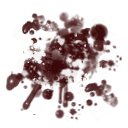
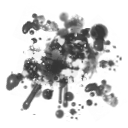
[changed] blood stains appearance [changed] dark green blood if monster is poisoned

diff --git a/src/program.cpp b/src/program.cpp
@@ -179,28 +179,32 @@ void createTerrain() {
 void spawnEnemy(float r) {
 	float spawnAngle = (rand() % 6300) / 1000.0;
 
-	int lvl = player->Level * 0.5f + player->Level * pow((rand() % 100) / 125.0f, 2);
-	if (lvl < 1) lvl = 1;
+	int lvl = player->Level * 0.5f + player->Level * pow((rand() % 100)
+			/ 125.0f, 2);
+	if (lvl < 1)
+		lvl = 1;
 
-	float scale = 0.1f + sqrt((float) lvl / player->Level);
+	float scale = 0.15f + sqrt((float) lvl / player->Level);
 
-	float param[3] = { 0.9f, 0.7f, 0.9f };
+	float param[3] = { 0.8f, 0.6f, 0.8f };
 
 	if (lvl > 1)
-		for (int i = 0; i < lvl; i++)
-		{
+		for (int i = 0; i < lvl; i++) {
 			int s = (rand() % 299) / 100;
 			param[s] += 0.1f;
 		}
 
 	float hi = 0.0f;
-	for (int i = 0; i < 3; i++)
-	{
-		if (param[i] > hi) hi = param[i];
+	for (int i = 0; i < 3; i++) {
+		if (param[i] > hi)
+			hi = param[i];
 	}
 
-	Enemy *newEnemy = new Enemy(r * cos(spawnAngle), r * sin(spawnAngle), param[1] > (param[0] + param[1] + param[2]) / 3.0f ? enemySprites[1] : enemySprites[0], bleedSprite,
-			enemyHitSounds[rand() % enemyHitSounds.size()]);
+	Enemy *newEnemy =
+			new Enemy(r * cos(spawnAngle), r * sin(spawnAngle), param[1]
+					> (param[0] + param[1] + param[2]) / 3.0f ? enemySprites[1]
+					: enemySprites[0], bleedSprite, enemyHitSounds[rand()
+					% enemyHitSounds.size()]);
 
 	newEnemy->Strength = param[0];
 	newEnemy->Agility = param[1];
@@ -212,7 +216,7 @@ void spawnEnemy(float r) {
 	newEnemy->GMask = newEnemy->Strength / hi;
 	newEnemy->BMask = newEnemy->Agility / hi * 0.7f;
 	newEnemy->Scale = scale;
-	
+
 	newEnemy->setHealth(newEnemy->MaxHealth());
 	newEnemy->Speed = newEnemy->MaxSpeed();
 	enemies.push_back(newEnemy);
@@ -270,15 +274,14 @@ void printVersion() {
 	delete[] buf;
 }
 
-void renderSplash()
-{
-	StaticObject* splash = new StaticObject(0,0,1000, 1000, new Texture(ImageUtility::loadImage(
-			fileUtility->getFullImagePath("splash.png")), GL_TEXTURE_2D,
-			GL_LINEAR, true), true);
+void renderSplash() {
+	StaticObject* splash = new StaticObject(0, 0, 1000, 1000,
+			new Texture(ImageUtility::loadImage(fileUtility->getFullImagePath(
+					"splash.png")), GL_TEXTURE_2D, GL_LINEAR, true), true);
 
 	glClear(GL_COLOR_BUFFER_BIT);
 
-	cam->X =cam->Y=0.0f;
+	cam->X = cam->Y = 0.0f;
 
 	cam->apply();
 
@@ -560,6 +563,23 @@ void killEnemy(int index) {
 	enemies.erase(enemies.begin() + index);
 }
 
+void addBloodStain(float x, float y, float angle, float scale, bool poisoned) {
+	StaticObject *newBloodStain = new StaticObject(x, y, 128, 128,
+			bloodTex[(rand() % 299) / 100], false);
+
+	newBloodStain->Scale = scale;
+	newBloodStain->Angle = angle;
+	if (poisoned) {
+		newBloodStain->GMask = 1.0f - (rand() % 200) / 1000.0f;
+		newBloodStain->RMask = newBloodStain->BMask = (rand() % 200) / 1000.0f;
+	} else {
+		newBloodStain->RMask = 1.0f - (rand() % 200) / 1000.0f;
+		newBloodStain->GMask = newBloodStain->BMask = (rand() % 200) / 1000.0f;
+
+	}
+	bloodStains.push_back(newBloodStain);
+}
+
 void handleEnemies() {
 	if (!lose)
 		for (int i = 0; i < deltaTime; i++) {
@@ -643,15 +663,9 @@ void handleEnemies() {
 				enemies[i]->rollFrame(true);
 			}
 
-			if (enemies[i]->isBleeding() && bloodStains.size() < 3) {
-				StaticObject *newBloodStain = new StaticObject(enemies[i]->X,
-						enemies[i]->Y, 128, 128,
-						bloodTex[(rand() % 299) / 100], false);
-				newBloodStain->Scale = (rand() % 10) / 50.0 + 0.1;
-				newBloodStain->Angle = enemies[i]->Angle;
-				newBloodStain->RMask = newBloodStain->GMask
-						= newBloodStain->BMask = 1.0 - (rand() % 200) / 1000.0;
-				bloodStains.push_back(newBloodStain);
+			if (enemies[i]->isBleeding() && bloodStains.size() < 9) {
+				addBloodStain(enemies[i]->X, enemies[i]->Y, enemies[i]->Angle,
+						(rand() % 10) / 50.0f + 0.1f, enemies[i]->Poisoned);
 			}
 		}
 	}
@@ -665,6 +679,23 @@ void handleBullets() {
 			if (bullets[i]->isActive() && !enemies.empty()) {
 				for (int j = enemies.size() - 1; j >= 0; j--) {
 					if (bullets[i]->checkHit(enemies[j])) {
+						if (bloodStains.size() < 9) {
+							for (int k = 0; k < 3; k++) {
+								int angleDev = (rand() % 90) - 45;
+								float distance = (rand() % 100);
+								float bX = enemies[j]->X - cos(
+										(bullets[i]->Angle + 90 + angleDev)
+												* M_PI / 180.0f) * distance;
+								float bY = enemies[j]->Y - sin(
+										(bullets[i]->Angle + 90 + angleDev)
+												* M_PI / 180.0f) * distance;
+
+								addBloodStain(bX, bY, enemies[j]->Angle,
+										enemies[j]->Scale * 0.5f,
+										enemies[j]->Poisoned);
+							}
+						}
+
 						player->Xp += (int) ((1.5 - dayLight * -0.5)
 								* bullets[i]->Damage * 10);
 						float damageLoss = enemies[j]->getHealth();
@@ -674,18 +705,6 @@ void handleBullets() {
 							bullets[i]->Damage -= damageLoss;
 							if (bullets[i]->Damage <= 0)
 								bullets[i]->deactivate();
-						}
-
-						if (bloodStains.size() < 3) {
-							StaticObject *newBloodStain = new StaticObject(
-									enemies[j]->X, enemies[j]->Y, 128, 128,
-									bloodTex[(rand() % 299) / 100], false);
-							newBloodStain->Scale = enemies[j]->Scale;
-							newBloodStain->Angle = enemies[j]->Angle;
-							newBloodStain->RMask = newBloodStain->GMask
-									= newBloodStain->BMask = 1.0 - (rand()
-											% 200) / 1000.0;
-							bloodStains.push_back(newBloodStain);
 						}
 					}
 				}
